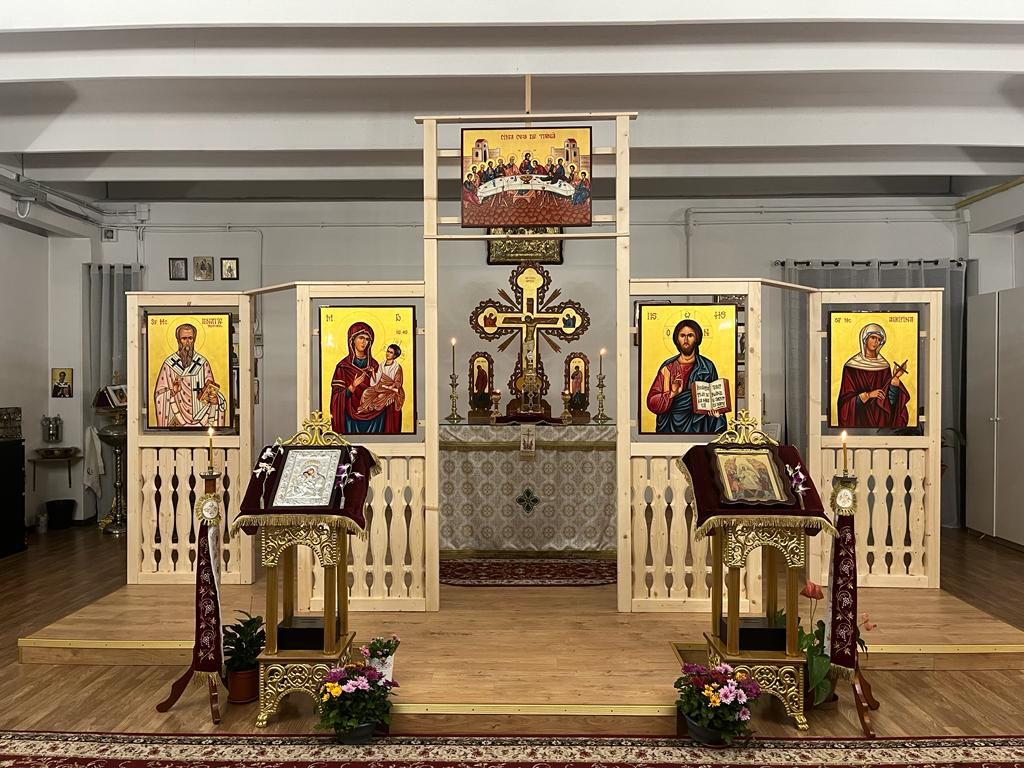
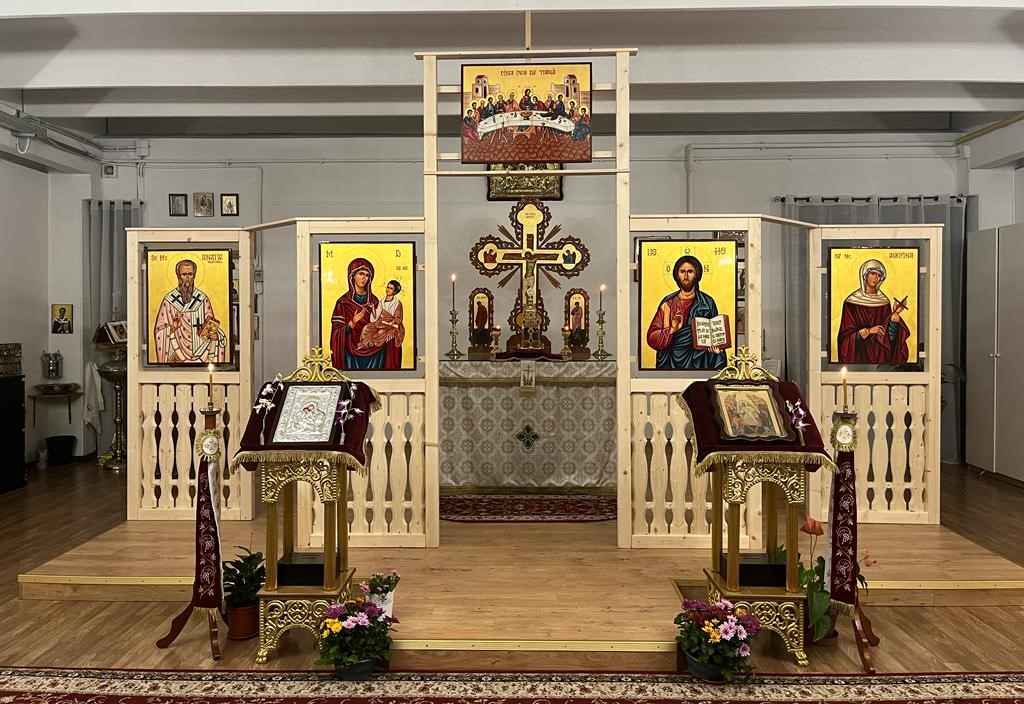
Add files via upload

diff --git a/index.html b/index.html
@@ -59,7 +59,7 @@
                     <h1>Biserica Ortodoxă Română din Sesto Fiorentino</h1>
                   </header>
                 <div>
-                  <img src="img/altar.jpg" class="img-fluid" alt="image not found" width="60%">
+                  <img src="img/altar.jpg" class="img-fluid" alt="image not found" width="70%">
                 </div>
               </td>
             </tr>
@@ -67,7 +67,7 @@
           </div>
           <br>
           <div class="container">
-            <h4>Descriere</h4>
+            <h3>Descriere</h3>
             <p>Cu binecuvântarea Preasfințitului Pǎrinte Episcop Siluan, al Episcopiei Ortodoxe Române a Italiei, ia naştere la 27 iunie 2017 Parohia Ortodoxǎ Românǎ Sf. Mc Agripina(23 iunie), pentru toți credincioşi români şi moldoveni care trǎiesc pe aceste meleaguri.
               La 1 septembrie 2017 este numit în funcția de Paroh al nou înfințatei parohii Pc. Pr Viorel Matei, care primise deja sarcina de a pune bazele noii comunitǎți.
               Cu ajutorul pǎrintelui catolic  Daniele Bani, de la parohia ,,San Martino” se începe lucrarea pastoralǎ în aceastǎ nouǎ comunitate în una din capelele parohiei ,,San Martino” dedicatǎ Sf Arhidiacon Laurențiu (Chiesa din San Lorenzo al prato). Se începe slujirea vecerniei în duminica Intrǎrii Domnului In Ierusalim iar de la 1 septembrie 2017 se începe slujirea duminicalǎ a Sfintei şi Dumnezeeştii Liturghii.
@@ -101,8 +101,8 @@
             <h3 style="color: rgb(166, 8, 8) ;"> Program Liturgic</h3>
             <ul>
               <li>Joi: 15:00 Program pentru badante</li>
-              <li>Vineri: 18:00 Spovedanie cu progamare prealabilâ</li>
-              <li>Sambata: 18:00 Vecernie  19:00 Soivedanie</li>
+              <li>Vineri: 18:00 Spovedanie cu progamare prealabilă</li>
+              <li>Sambata: 18:00 Vecernie  19:00 Spovedanie</li>
               <li>Duminica: 08:00 Utrenie  9:30 Sf. Liturgie</li>
             </ul>
           </div>  

diff --git a/contatti.html b/contatti.html
@@ -13,7 +13,8 @@
 </script>
    <meta charset="UTF-8">
     <meta name="viewport" content="width=device-width, initial-scale=1.0">
-    <title>Contacte</title>
+    <title>Contatti</title>
+    <link rel="stylesheet" href="style.css">
     <link href="https://cdn.jsdelivr.net/npm/bootstrap@5.0.0-beta1/dist/css/bootstrap.min.css" rel="stylesheet" integrity="sha384-giJF6kkoqNQ00vy+HMDP7azOuL0xtbfIcaT9wjKHr8RbDVddVHyTfAAsrekwKmP1" crossorigin="anonymous">
 </head>
 <body style="background-color: white">

diff --git a/SfAgrippina.html b/SfAgrippina.html
@@ -15,6 +15,7 @@
     <meta http-equiv="X-UA-Compatible" content="IE=edge">
     <meta name="viewport" content="width=device-width, initial-scale=1.0">
     <title>Despre Sf Agripina</title>
+    <link rel="stylesheet" href="style.css">
     <link href="https://cdn.jsdelivr.net/npm/bootstrap@5.0.0-beta1/dist/css/bootstrap.min.css" rel="stylesheet" integrity="sha384-giJF6kkoqNQ00vy+HMDP7azOuL0xtbfIcaT9wjKHr8RbDVddVHyTfAAsrekwKmP1" crossorigin="anonymous">
     <style>
         .center {

diff --git a/despreSfAgripina.html b/despreSfAgripina.html
@@ -15,6 +15,7 @@
     <meta http-equiv="X-UA-Compatible" content="IE=edge">
     <meta name="viewport" content="width=device-width, initial-scale=1.0">
     <title>Despre Sf Agripina</title>
+    <link rel="stylesheet" href="style.css">
     <link href="https://cdn.jsdelivr.net/npm/bootstrap@5.0.0-beta1/dist/css/bootstrap.min.css" rel="stylesheet" integrity="sha384-giJF6kkoqNQ00vy+HMDP7azOuL0xtbfIcaT9wjKHr8RbDVddVHyTfAAsrekwKmP1" crossorigin="anonymous">
     <style>
         .center {

diff --git a/contacte.html b/contacte.html
@@ -15,6 +15,7 @@
    <meta charset="UTF-8">
     <meta name="viewport" content="width=device-width, initial-scale=1.0">
     <title>Contacte</title>
+    <link rel="stylesheet" href="style.css">
     <link href="https://cdn.jsdelivr.net/npm/bootstrap@5.0.0-beta1/dist/css/bootstrap.min.css" rel="stylesheet" integrity="sha384-giJF6kkoqNQ00vy+HMDP7azOuL0xtbfIcaT9wjKHr8RbDVddVHyTfAAsrekwKmP1" crossorigin="anonymous">
 </head>
 <body style="background-color: white">

diff --git a/indexIT.html b/indexIT.html
@@ -69,7 +69,7 @@
          
           <br>
           <div class="container">
-            <h4>Descrizione</h4>
+            <h3>Descrizione</h3>
             <p>
               Con la benedizione della sua Eccellenza Padre Siluan, Vescovo della Diocesi Ortodossa Rumena d'Italia, il 27 giugno 2017 è nata la Parrocchia Ortodossa Rumena di Santa Martire Agrippina (23 giugno), per tutti i fedeli rumeni e moldavi che vivono in queste terre.
               

diff --git a/style.css b/style.css
@@ -36,3 +36,7 @@
     width:100%;
     position:absolute;
 }
+
+p, ul {
+    font-size: large;
+}
